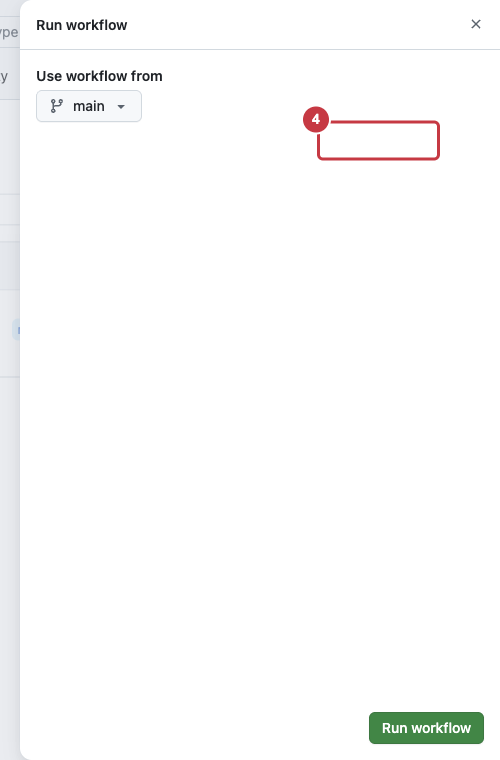
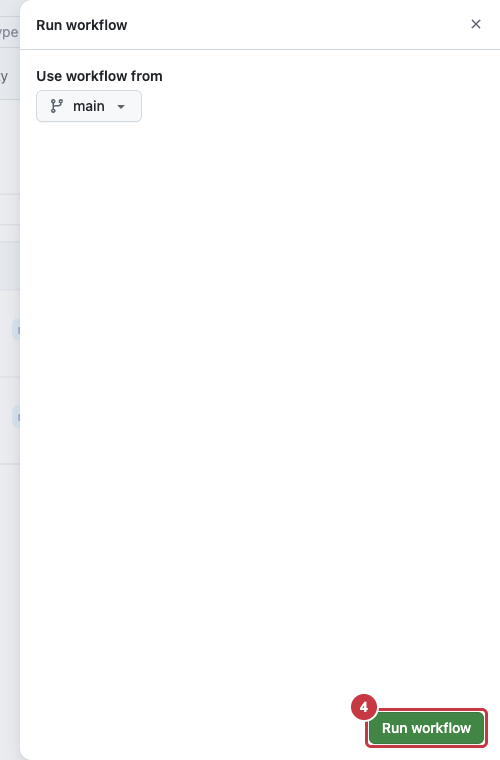
ДУП.02, инструкция: кадр Sync Changes 1↓ и значка строки состояния в §5, §6, §8, §10; панель Run workflow переснята после анимации; запреты переписаны прямыми указаниями

Changed region(s): [[0.6, 0.1211, 0.9, 0.2118], [0.69, 0.9079, 0.99, 0.9987]]

diff --git a/dup02-vvedenie-v-python/repozitoriy/index.html b/dup02-vvedenie-v-python/repozitoriy/index.html
@@ -194,9 +194,9 @@
         <p>Логин входит в адрес каждого вашего репозитория. Его увидят преподаватель и работодатель, поэтому логин составляют из имени и фамилии латиницей:</p>
         <div class="swap">
           <div class="swap__row">
-            <div class="swap__old"><b>Так не называют</b>krutoy2009 · user123456 · qwerty-pro</div>
+            <div class="swap__old"><b>Логин без имени</b>krutoy2009 · user123456 · qwerty-pro</div>
             <div class="swap__arrow">→</div>
-            <div class="swap__new"><b>Так называют</b>ivan-petrov · ipetrov · ivan-petrov-dev</div>
+            <div class="swap__new"><b>Логин из имени и фамилии</b>ivan-petrov · ipetrov · ivan-petrov-dev</div>
           </div>
         </div>
         <h3>Шаг 2. Скопировать служебную почту</h3>
@@ -276,7 +276,7 @@
         <p>Откройте <a href="https://github.com/MaximBytecamp/python-start-template">github.com/MaximBytecamp/python-start-template</a>. Справа над списком файлов нажмите <span class="ui ui--green">Use this template</span> → <span class="ui">Create a new repository</span>.</p>
         <figure class="shot shot--wide">
           <img src="img/gh-template.png" alt="Кнопка Use this template и пункт Create a new repository" loading="lazy">
-          <figcaption><b>1</b> — зелёная кнопка <b>Use this template</b>; <b>2</b> — пункт <b>Create a new repository</b> в меню под ней. Кнопка <b>Fork</b> левее — её не нажимают.</figcaption>
+          <figcaption><b>1</b> — зелёная кнопка <b>Use this template</b>; <b>2</b> — пункт <b>Create a new repository</b> в меню под ней. Левее стоит кнопка <b>Fork</b>; для курса нужна зелёная <b>Use this template</b>.</figcaption>
         </figure>
         <h3>Шаг 2. Заполнить форму</h3>
         <p>Откроется форма нового репозитория. Номера на кадре совпадают с номерами в таблице.</p>
@@ -289,7 +289,7 @@
           <table>
             <thead><tr><th>№</th><th>Поле</th><th>Что указать</th></tr></thead>
             <tbody>
-              <tr><td>1</td><td><span class="ui">Include all branches</span></td><td>переключатель не трогать, остаётся <b>Off</b></td></tr>
+              <tr><td>1</td><td><span class="ui">Include all branches</span></td><td>оставить в положении <b>Off</b></td></tr>
               <tr><td>2</td><td><span class="ui">Repository name</span></td><td><code>python-start</code></td></tr>
               <tr><td>3</td><td><span class="ui">Description</span></td><td><code>Мои работы по Python: домашние, практические, задачник</code></td></tr>
               <tr><td>4</td><td><span class="ui">Choose visibility</span></td><td><span class="ui">Public</span>: репозиторий открывают преподаватель и работодатель</td></tr>
@@ -439,7 +439,7 @@
           <figcaption><b>1</b> — кнопка <b>Allow</b>.</figcaption>
         </figure>
         <p> Откроется браузер. Нажмите в нём <span class="ui ui--green">Continue</span> или <span class="ui ui--green">Authorize Visual-Studio-Code</span> и вернитесь в VS Code. Если браузер предлагает войти от чужого имени, вернитесь к шагу 1.</p>
-        <p>В списке выберите <code>ваш-логин/python-start</code>. Папку для копии укажите в <b>Документах</b>. Рабочий стол и «Загрузки» не подходят: там файлы теряются среди скачанного. Когда загрузка закончится, VS Code спросит, что делать с проектом:</p>
+        <p>В списке выберите <code>ваш-логин/python-start</code>. Папку для копии выберите в <b>Документах</b>: там проект лежит отдельно от скачанных файлов, и на следующей паре его легко найти. Когда загрузка закончится, VS Code спросит, что делать с проектом:</p>
         <figure class="shot shot--wide">
           <img src="img/clone-open-prompt.png" alt="Окно VS Code: Would you like to open the repository, or add it to the current workspace? Кнопки Add to Workspace, Open in New Window, Cancel, Open">
           <figcaption>Нажимаем <b>Open</b>: проект откроется в этом окне.</figcaption>
@@ -493,10 +493,13 @@
           <div class="checklist__item"><span><b>Внизу слева написано main</b>Это ветка, в которую сдаются все работы.</span></div>
           <div class="checklist__item"><span><b>Команда <code>git config user.email</code> печатает вашу почту</b>Служебную, из §2.</span></div>
         </div>
-        <div class="margin-note">
-          <b>На полях: папка осталась с прошлой пары</b>
-          <p>Если вы склонировали репозиторий на этот компьютер раньше, откройте папку через <b>File → Open Folder</b> и нажмите <b>Sync Changes</b>. Шаги 1–3 выполняются всё равно: после вас за компьютером мог работать другой студент. Если сомневаетесь, чья это папка, склонируйте заново: всё сданное хранится на GitHub.</p>
-        </div>
+        <h3>Если папка осталась с прошлой пары</h3>
+        <p>Шаги 1–3 выполняются всё равно: после вас за компьютером мог работать другой студент. Вместо шага 4 откройте папку через <b>File → Open Folder</b>, затем панель Source Control и нажмите <b>Sync Changes</b>:</p>
+        <figure class="shot shot--panel">
+          <img src="img/vs-sync-incoming.png" alt="Панель Source Control: кнопка Sync Changes 1↓, в графе входящий коммит materials: обновление из шаблона курса; в строке состояния значок синхронизации 1↓ 0↑" loading="lazy">
+          <figcaption><b>1</b> — кнопка <b>Sync Changes 1↓</b> в панели Source Control: на GitHub есть один новый коммит; <b>2</b> — тот же обмен значком в строке состояния внизу: <b>1↓ 0↑</b>. Нажимается любая из двух кнопок.</figcaption>
+        </figure>
+        <p>Если сомневаетесь, чья это папка, склонируйте репозиторий заново по шагу 4: всё сданное хранится на GitHub.</p>
         <p class="step-done"><b>Что получилось.</b>На компьютере открыта ваша копия репозитория, коммиты подписываются вашим именем.</p>
         <p>Дома подготовка короче: компьютер ваш, и чужих входов на нём нет.</p>
 
@@ -528,14 +531,20 @@
         </figure>
         <h3>Шаг 3. Склонировать репозиторий</h3>
         <p>Так же, как в шаге 4 §5: <b>Clone Repository</b> → <b>Clone from GitHub</b> → <code>python-start</code> → папка в Документах → <b>Open</b>.</p>
-        <p class="step-done"><b>Что получилось.</b>Копия репозитория лежит на вашем компьютере. VS Code открывает её при запуске. Перед работой нажмите <b>Sync Changes</b>, чтобы забрать новое с GitHub.</p>
+        <h3>Шаг 4. Перед каждой работой: Sync Changes</h3>
+        <p>VS Code при запуске открывает последнюю папку. Откройте панель Source Control и нажмите <b>Sync Changes</b>, чтобы забрать новое с GitHub:</p>
+        <figure class="shot shot--panel">
+          <img src="img/vs-sync-incoming.png" alt="Панель Source Control: кнопка Sync Changes 1↓, в графе входящий коммит materials: обновление из шаблона курса; в строке состояния значок синхронизации 1↓ 0↑" loading="lazy">
+          <figcaption><b>1</b> — кнопка <b>Sync Changes 1↓</b> в панели Source Control: на GitHub есть один новый коммит; <b>2</b> — тот же обмен значком в строке состояния внизу: <b>1↓ 0↑</b>. Нажимается любая из двух кнопок.</figcaption>
+        </figure>
+        <p class="step-done"><b>Что получилось.</b>Копия репозитория лежит на вашем компьютере, новое с GitHub забрано.</p>
         <p>Компьютер подготовлен. Теперь о том, куда класть работы, чтобы преподаватель находил их по одному пути у всех студентов.</p>
 
         <div class="part" role="separator"><span><b>3</b>Сдача работы</span></div>
 
         <!-- ═════════════════════════════════════════════ §7 -->
         <h2 id="s7"><span class="sec">§7</span>Куда класть работу и как называть файлы</h2>
-        <p>Репозиторий устроен как скоросшиватель с разделителями. Для каждого вида работ своя папка, внутри — по папке на работу. Набор папок задан шаблоном, новые папки верхнего уровня не создаются.</p>
+        <p>Репозиторий устроен как скоросшиватель с разделителями. Для каждого вида работ своя папка, внутри — по папке на работу. Набор папок задан шаблоном: работы кладутся в одну из четырёх папок — <code>homework</code>, <code>practice</code>, <code>problems</code>, <code>exams</code>.</p>
         <div class="tree">
           <p class="tree__head">Папки репозитория python-start</p>
           <div class="tree__body">
@@ -584,7 +593,7 @@
 
         <!-- ═════════════════════════════════════════════ §8 -->
         <h2 id="s8"><span class="sec">§8</span>Сдать работу из VS Code</h2>
-        <p>Порядок одинаковый для всех видов работ. Все работы загружаются в ветку <code>main</code>, отдельные ветки и Pull Request не создаются.</p>
+        <p>Порядок одинаковый для всех видов работ. Все работы загружаются в ветку <code>main</code>.</p>
         <div class="flowline">
           <p class="flowline__head">Путь работы от папки до GitHub</p>
           <div class="flowline__track">
@@ -596,7 +605,12 @@
           </div>
         </div>
         <h3>Шаг 1. Забрать новое с GitHub</h3>
-        <p>Нажмите <b>Sync Changes</b> в панели Source Control или значок обновления в строке состояния внизу. На компьютер придут новые задания и правки, сделанные через сайт.</p>
+        <p>Откройте панель Source Control: <kbd><span data-os="win linux">Ctrl</span><span data-os="mac">Cmd</span></kbd> + <kbd>Shift</kbd> + <kbd>G</kbd>. Нажмите <b>Sync Changes</b>. На компьютер придут новые задания и правки, сделанные через сайт.</p>
+        <figure class="shot shot--panel">
+          <img src="img/vs-sync-incoming.png" alt="Панель Source Control: кнопка Sync Changes 1↓, в графе входящий коммит materials: обновление из шаблона курса; в строке состояния значок синхронизации 1↓ 0↑" loading="lazy">
+          <figcaption><b>1</b> — кнопка <b>Sync Changes 1↓</b> в панели Source Control: на GitHub есть один новый коммит; <b>2</b> — тот же обмен значком в строке состояния внизу: <b>1↓ 0↑</b>. Нажимается любая из двух кнопок. Если нового на GitHub нет, кнопки в панели может не быть: тогда нажмите значок в строке состояния.</figcaption>
+        </figure>
+
         <h3>Шаг 2. Создать папку и файлы</h3>
         <p>В проводнике VS Code нажмите на папку <code>homework</code>, чтобы выделить её. Наведите мышь на строку с именем проекта: справа появятся значки. Нажмите значок <b>New Folder</b>.</p>
         <figure class="shot shot--panel">
@@ -686,8 +700,8 @@
           <table>
             <thead><tr><th>Пункт в окне коммита</th><th>Что произойдёт</th></tr></thead>
             <tbody>
-              <tr><td><span class="ui">Commit directly to the main branch</span></td><td>файлы попадут в <code>main</code>, работа сдана</td></tr>
-              <tr><td><span class="ui">Create a new branch for this commit</span></td><td>файлы уйдут в отдельную ветку, в <code>main</code> их не будет; этот пункт не выбирают</td></tr>
+              <tr><td><span class="ui">Commit directly to the main branch</span></td><td>выбирать этот пункт: файлы попадут в <code>main</code>, работа сдана</td></tr>
+              <tr><td><span class="ui">Create a new branch for this commit</span></td><td>файлы уйдут в отдельную ветку и в <code>main</code> не появятся</td></tr>
             </tbody>
           </table>
         </div>
@@ -733,14 +747,14 @@
             </div>
           </div>
         </div>
-        <p>Из этого следует правило: файлы из левой колонки не редактируйте. Правка в них пропадёт при следующем переносе.</p>
+        <p>Из этого следует правило: свои правки пишите в файлах правой колонки. Файлы левой колонки при каждом переносе заменяются версией преподавателя.</p>
         <h3>Шаг 1. Забрать обновление сразу</h3>
         <p>Этот шаг нужен, когда задание выдано на паре и ждать утра нельзя. Откройте свой репозиторий → вкладка <span class="ui">Actions</span> → слева <span class="ui">Обновление материалов курса</span> → справа кнопка <span class="ui">Run workflow</span>.</p>
         <figure class="shot shot--wide">
           <img src="img/gh-run-workflow.png" alt="Вкладка Actions: слева workflow Обновление материалов курса, справа кнопка Run workflow" loading="lazy">
           <figcaption><b>1</b> — вкладка <b>Actions</b>; <b>2</b> — <b>Обновление материалов курса</b> в списке слева; <b>3</b> — кнопка <b>Run workflow</b>.</figcaption>
         </figure>
-        <p>Справа откроется панель. Ветку <code>main</code> не меняйте и нажмите зелёную <span class="ui ui--green">Run workflow</span> внизу панели. Через полминуты в списке появится запуск.</p>
+        <p>Справа откроется панель. Оставьте ветку <code>main</code> и нажмите зелёную <span class="ui ui--green">Run workflow</span> внизу панели. Через полминуты в списке появится запуск.</p>
         <figure class="shot shot--panel">
           <img src="img/gh-run-workflow-2.png" alt="Панель Run workflow: ветка main и зелёная кнопка Run workflow" loading="lazy">
           <figcaption><b>4</b> — зелёная кнопка <b>Run workflow</b>, она запускает перенос.</figcaption>
@@ -760,7 +774,12 @@
           <figcaption><b>1</b> — зелёная галочка у названия запуска: перенос прошёл; <b>2</b> — отчёт: сколько файлов добавлено и обновлено, ниже их список.</figcaption>
         </figure>
         <h3>Шаг 2. Забрать на компьютер</h3>
-        <p>В VS Code нажмите <b>Sync Changes</b>. Новые папки появятся в проводнике.</p>
+        <p>В VS Code откройте панель Source Control и нажмите <b>Sync Changes</b>. На кадре в графе виден входящий коммит <code>materials: обновление из шаблона курса</code>: это перенос, который сделал GitHub.</p>
+        <figure class="shot shot--panel">
+          <img src="img/vs-sync-incoming.png" alt="Панель Source Control: кнопка Sync Changes 1↓, в графе входящий коммит materials: обновление из шаблона курса; в строке состояния значок синхронизации 1↓ 0↑" loading="lazy">
+          <figcaption><b>1</b> — кнопка <b>Sync Changes 1↓</b> в панели Source Control: на GitHub есть один новый коммит; <b>2</b> — тот же обмен значком в строке состояния внизу: <b>1↓ 0↑</b>. Нажимается любая из двух кнопок.</figcaption>
+        </figure>
+        <p>После нажатия новые папки появятся в проводнике.</p>
         <div class="margin-note">
           <b>На полях: репозиторий создан до 22.10.2026</b>
           <p>В нём старые имена папок и нет файла обновления. Переименуйте старый репозиторий в <code>python-start-old</code> (<b>Settings → Repository name → Rename</b>) и создайте новый по §3. Перенесите решения: <code>dz/dz-01-…/zadacha_1.py</code> → <code>homework/01-…/task_01.py</code>, <code>zadachnik/glava-1-3/</code> → <code>problems/chapter-1-3/</code>, <code>kontrolnye/kr-01/</code> → <code>exams/exam-01/</code>, <code>kontrolnye/test-01-…</code> → <code>exams/quiz-01-…</code>, <code>praktiki/pr-01-…</code> → <code>practice/01-…</code>. Затем удалите старый: <b>Settings → Delete this repository</b>.</p>
